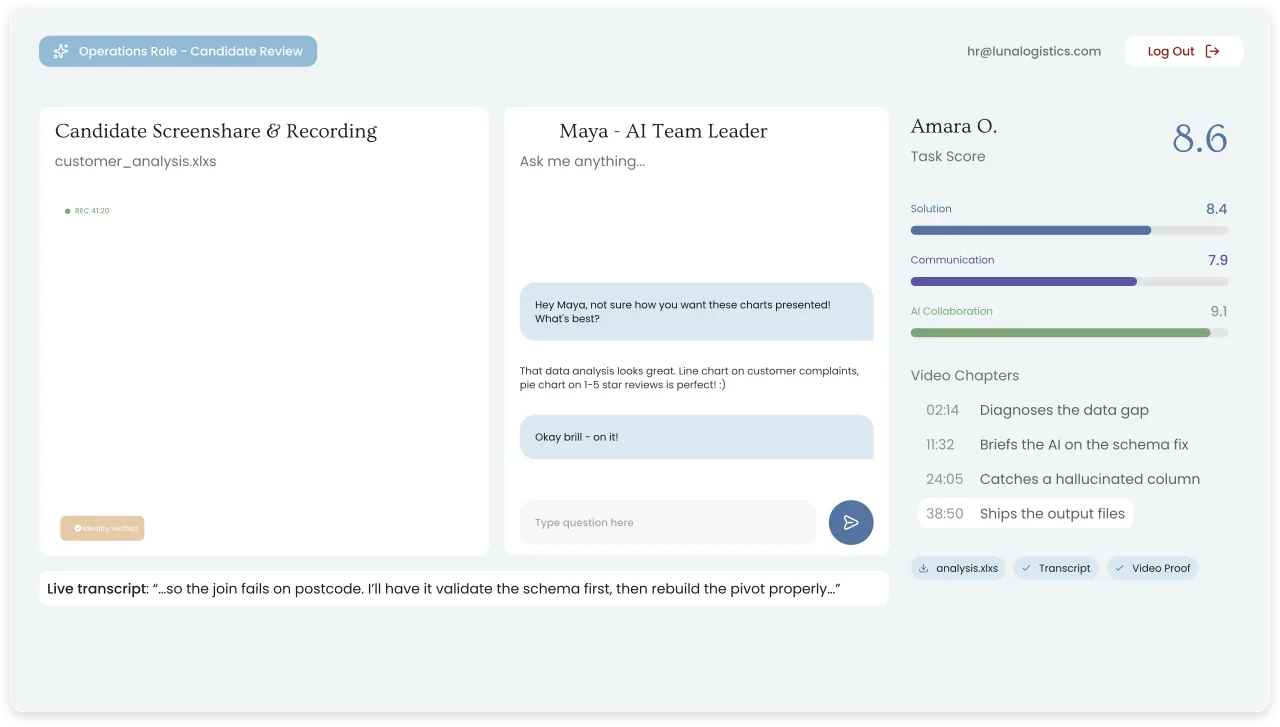
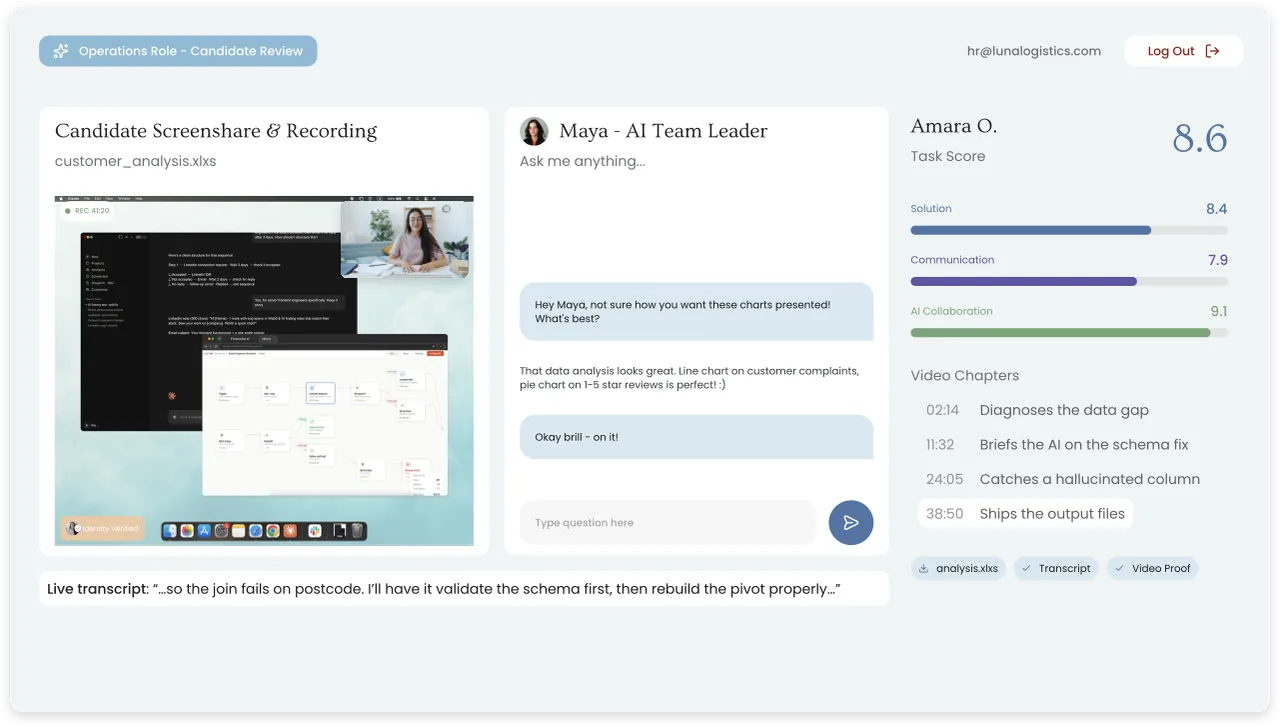
Restore the screen recording missing from the hero mockup
The Candidate Screenshare panel has been an empty white box since 8698aa1
replaced the 627KB hero SVG with WebP. The cause: hero-mockup.svg carries five
raster images as base64 data URIs, and they are themselves WebP. librsvg
cannot decode a WebP data URI inside an SVG, so it rendered the vector
artwork and silently dropped all five. Reproduced exactly with sharp today,
which produced the same blank panel from the same SVG.

Lost with it, not just the screen recording: Maya's avatar beside "AI Team
Leader", the candidate webcam still, and the face on the Identity Verified
badge. assets/hero-visual.jpg, the social preview, predates the conversion
and still shows all of them, which is what the mockup is meant to look like.

Fix is at the source rather than by patching pixels: rewrite the five data
URIs from WebP to PNG in a temporary copy of the SVG, then render that. Every
image decodes, and the z-order comes out right, so the REC 41:20 pill and the
Identity Verified badge still sit over the screenshot instead of being painted
over by it. Regenerated at the three existing sizes and dimensions, so no
markup, CSS or layout changes: 768x436, 1280x727, 2404x1364, +5 to +26KB each.

Measured on the rendered page, the screen rectangle goes from 98.4% white to
21.3% at desktop and 19.4% on the 768 variant.

_headers caches /assets/* for a week and the filenames are unchanged, so the
srcset URLs carry ?v=2 on index.html and grad-schemes.html. Without it every
[…]

diff --git a/fluencyfox-site_6/index.html b/fluencyfox-site_6/index.html
@@ -118,8 +118,8 @@
     <div class="hero-visual">
       <img class="hero-bg" src="assets/hero-mountains.webp" srcset="assets/hero-mountains-768.webp 768w, assets/hero-mountains-1280.webp 1280w, assets/hero-mountains.webp 2048w" sizes="100vw" alt="" width="2048" height="1526" fetchpriority="high" decoding="async">
       <div class="hero-mockup-wrap">
-        <img src="assets/hero-mockup-2404.webp"
-             srcset="assets/hero-mockup-768.webp 768w, assets/hero-mockup-1280.webp 1280w, assets/hero-mockup-2404.webp 2404w"
+        <img src="assets/hero-mockup-2404.webp?v=2"
+             srcset="assets/hero-mockup-768.webp?v=2 768w, assets/hero-mockup-1280.webp?v=2 1280w, assets/hero-mockup-2404.webp?v=2 2404w"
              sizes="(max-width: 900px) 85vw, 1202px"
              alt="A live Fluencyfox assessment: candidate screenshare, AI team-leader chat, and a scored task result" width="1202" height="682" decoding="async">
         <video autoplay muted loop playsinline poster="assets/hero-candidate-screenshare-poster.jpg">

diff --git a/fluencyfox-site_6/grad-schemes.html b/fluencyfox-site_6/grad-schemes.html
@@ -51,8 +51,8 @@
     <div class="hero-visual">
       <img class="hero-bg" src="assets/hero-mountains.webp" srcset="assets/hero-mountains-768.webp 768w, assets/hero-mountains-1280.webp 1280w, assets/hero-mountains.webp 2048w" sizes="100vw" alt="" width="2048" height="1526" fetchpriority="high" decoding="async">
       <div class="hero-mockup-wrap">
-        <img src="assets/hero-mockup-2404.webp"
-             srcset="assets/hero-mockup-768.webp 768w, assets/hero-mockup-1280.webp 1280w, assets/hero-mockup-2404.webp 2404w"
+        <img src="assets/hero-mockup-2404.webp?v=2"
+             srcset="assets/hero-mockup-768.webp?v=2 768w, assets/hero-mockup-1280.webp?v=2 1280w, assets/hero-mockup-2404.webp?v=2 2404w"
              sizes="(max-width: 900px) 85vw, 1202px"
              alt="A live Fluencyfox assessment: candidate screenshare, AI team-leader chat, and a scored task result" width="1202" height="682" decoding="async">
         <video autoplay muted loop playsinline poster="assets/hero-candidate-screenshare-poster.jpg">
